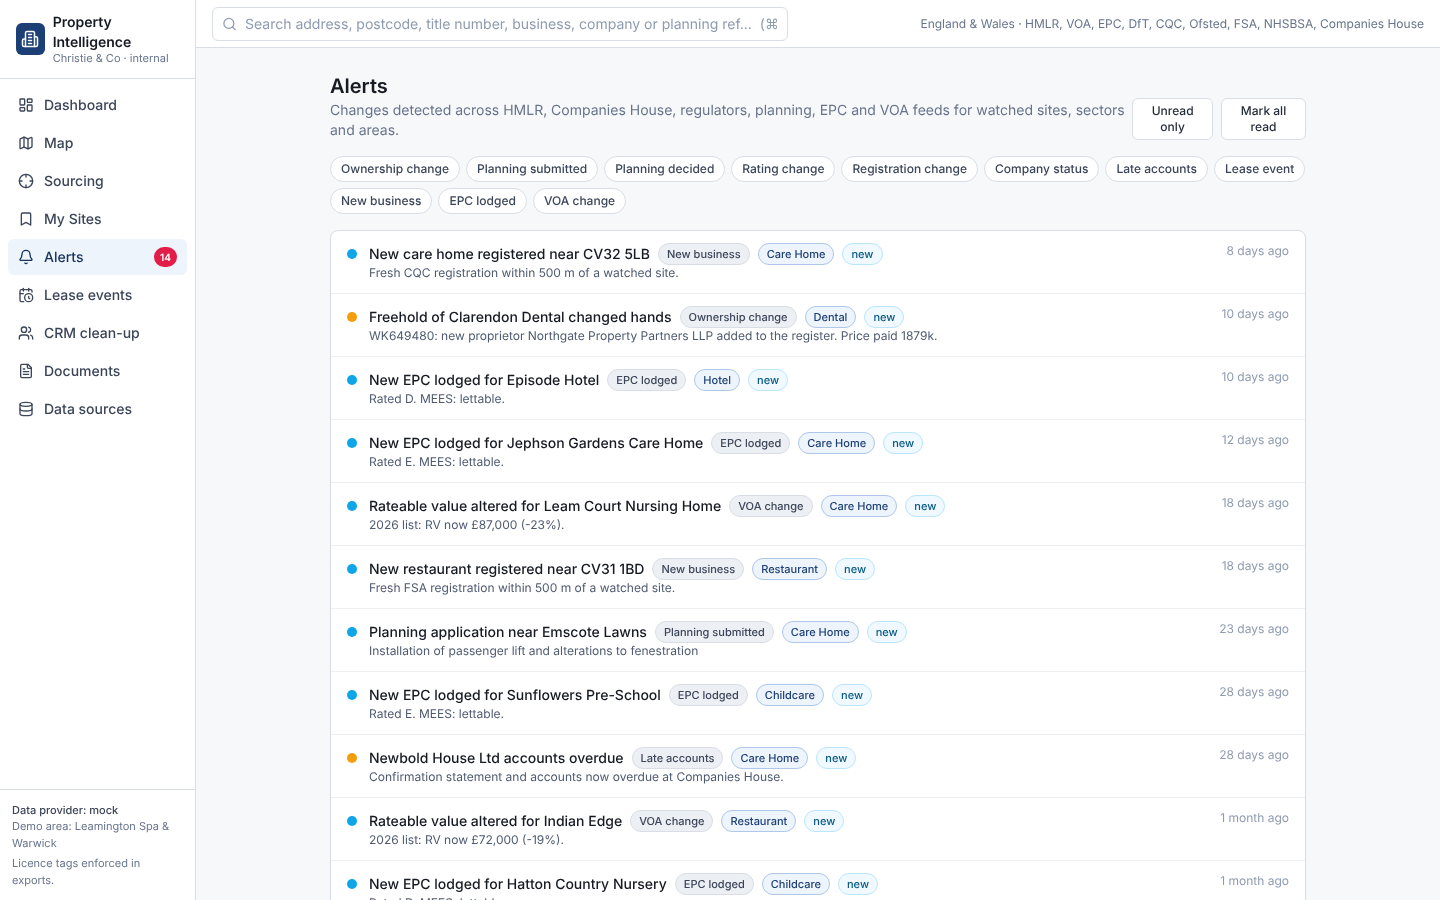
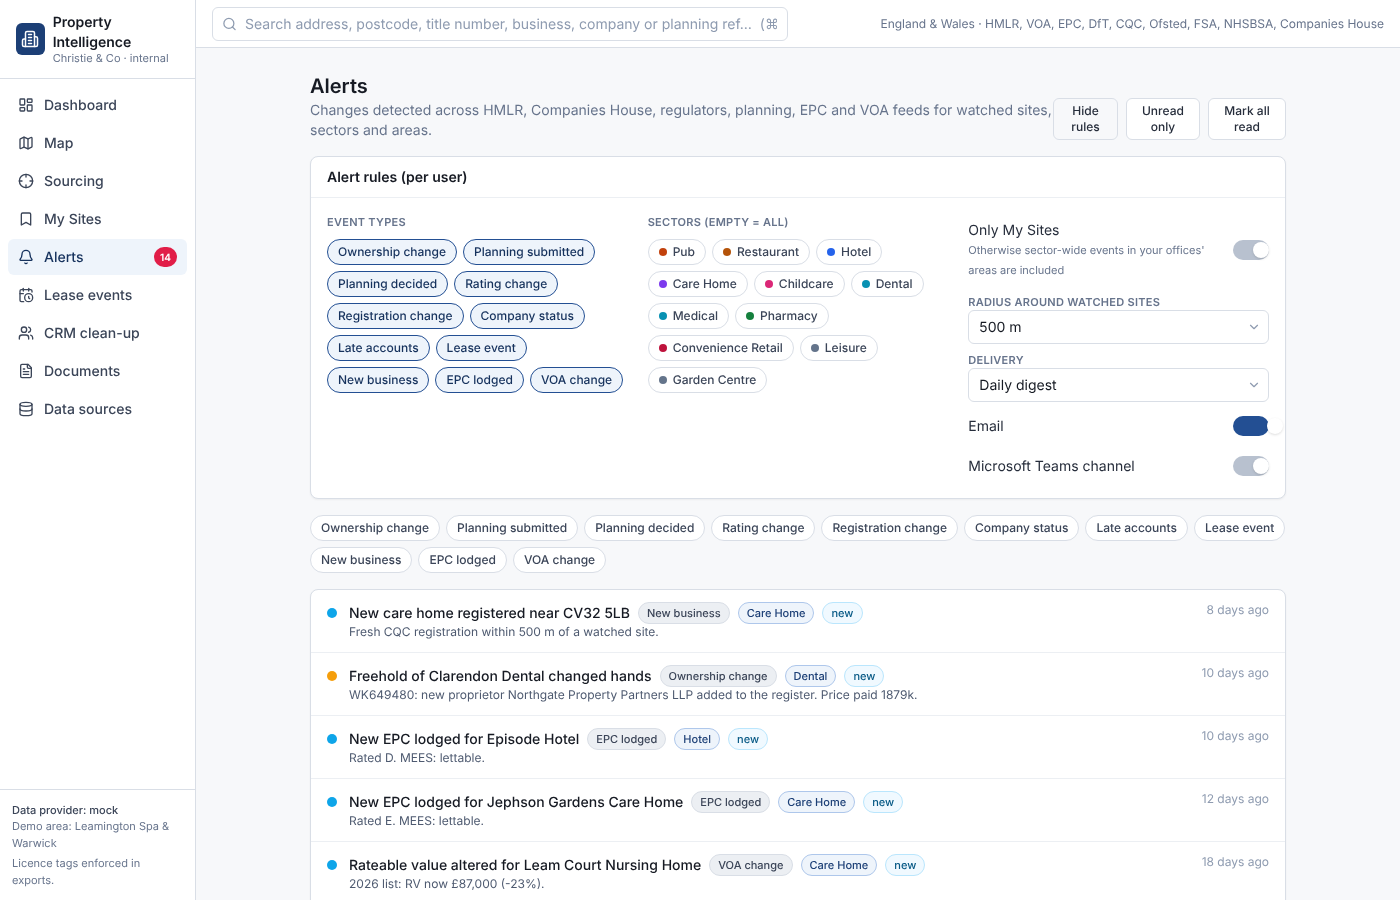
Add per-user alert rules, Escape to close panel, and user guide
Claude-Session: https://claude.ai/code/session_015vZgzRZrG7p5YZ5m8JabBE

diff --git a/src/pages/AlertsPage.tsx b/src/pages/AlertsPage.tsx
@@ -1,7 +1,9 @@
 import { useEffect, useState } from 'react'
 import { useNavigate } from 'react-router-dom'
 import { provider, type Alert } from '@/data'
-import { Badge, Button, Chip } from '@/components/ui'
+import { Badge, Button, Chip, Card, Toggle, Select } from '@/components/ui'
+import { SECTORS } from '@/data/types'
+import { SECTOR_COLOURS } from '@/lib/sectors'
 import { ago } from '@/lib/format'
 import { useUi } from '@/store/ui'
 
@@ -13,6 +15,8 @@ export function AlertsPage() {
   const [unreadOnly, setUnreadOnly] = useState(false)
   const nav = useNavigate()
   const select = useUi((s) => s.select)
+  const { alertRules, setAlertRules, watchlist } = useUi()
+  const [showRules, setShowRules] = useState(false)
   const load = () => provider.getAlerts().then((a) => setAlerts([...a]))
   useEffect(() => {
     load()
@@ -26,7 +30,7 @@ export function AlertsPage() {
       nav(`/map/${a.entityType}/${encodeURIComponent(a.entityId)}`)
     }
   }
-  const shown = alerts.filter((a) => (!kinds.length || kinds.includes(a.kind)) && (!unreadOnly || !a.read))
+  const shown = alerts.filter((a) => (!kinds.length || kinds.includes(a.kind)) && (!unreadOnly || !a.read) && alertRules.kinds.includes(a.kind) && (!alertRules.sectors.length || !a.sector || alertRules.sectors.includes(a.sector)) && (!alertRules.watchedOnly || watchlist.some((w) => w.entityId === a.entityId)))
   return (
     <div className="mx-auto max-w-5xl space-y-4 p-6">
       <div className="flex items-end justify-between">
@@ -35,10 +39,32 @@ export function AlertsPage() {
           <p className="text-sm text-ink-500">Changes detected across HMLR, Companies House, regulators, planning, EPC and VOA feeds for watched sites, sectors and areas.</p>
         </div>
         <div className="flex gap-2">
+          <Button size="sm" onClick={() => setShowRules(!showRules)}>{showRules ? 'Hide rules' : 'Alert rules'}</Button>
           <Button size="sm" onClick={() => setUnreadOnly(!unreadOnly)}>{unreadOnly ? 'Show all' : 'Unread only'}</Button>
           <Button size="sm" onClick={async () => { for (const a of alerts) await provider.markAlertRead(a.alertId); load() }}>Mark all read</Button>
         </div>
       </div>
+      {showRules && (
+        <Card title="Alert rules (per user)">
+          <div className="grid gap-5 md:grid-cols-3">
+            <div>
+              <div className="label mb-2">Event types</div>
+              <div className="flex flex-wrap gap-1.5">{KINDS.map((k) => <Chip key={k} label={k} selected={alertRules.kinds.includes(k)} onClick={() => setAlertRules({ kinds: alertRules.kinds.includes(k) ? alertRules.kinds.filter((x) => x !== k) : [...alertRules.kinds, k] })} />)}</div>
+            </div>
+            <div>
+              <div className="label mb-2">Sectors (empty = all)</div>
+              <div className="flex flex-wrap gap-1.5">{SECTORS.filter((x) => x !== 'Other').map((sct) => <Chip key={sct} label={sct} colour={SECTOR_COLOURS[sct]} selected={alertRules.sectors.includes(sct)} onClick={() => setAlertRules({ sectors: alertRules.sectors.includes(sct) ? alertRules.sectors.filter((x) => x !== sct) : [...alertRules.sectors, sct] })} />)}</div>
+            </div>
+            <div className="space-y-2">
+              <Toggle checked={alertRules.watchedOnly} onChange={(v) => setAlertRules({ watchedOnly: v })} label="Only My Sites" hint="Otherwise sector-wide events in your offices' areas are included" />
+              <label className="block text-xs"><span className="label">Radius around watched sites</span><Select value={alertRules.radiusM} onChange={(e) => setAlertRules({ radiusM: Number(e.target.value) })}>{[100, 250, 500, 1000, 2000].map((r) => <option key={r} value={r}>{r} m</option>)}</Select></label>
+              <label className="block text-xs"><span className="label">Delivery</span><Select value={alertRules.digest} onChange={(e) => setAlertRules({ digest: e.target.value as never })}><option value="instant">Instant</option><option value="daily">Daily digest</option><option value="weekly">Weekly digest</option></Select></label>
+              <Toggle checked={alertRules.channels.email} onChange={(v) => setAlertRules({ channels: { ...alertRules.channels, email: v } })} label="Email" />
+              <Toggle checked={alertRules.channels.teams} onChange={(v) => setAlertRules({ channels: { ...alertRules.channels, teams: v } })} label="Microsoft Teams channel" />
+            </div>
+          </div>
+        </Card>
+      )}
       <div className="flex flex-wrap gap-1.5">{KINDS.map((k) => <Chip key={k} label={k} selected={kinds.includes(k)} onClick={() => setKinds(kinds.includes(k) ? kinds.filter((x) => x !== k) : [...kinds, k])} />)}</div>
       <ul className="card divide-y divide-ink-100">
         {shown.map((a) => (

diff --git a/src/store/ui.ts b/src/store/ui.ts
@@ -1,6 +1,6 @@
 import { create } from 'zustand'
 import { persist } from 'zustand/middleware'
-import type { BoundsQuery, Sector, SourcingFilters, WatchItem } from '@/data/types'
+import type { Alert, BoundsQuery, Sector, SourcingFilters, WatchItem } from '@/data/types'
 import { DEFAULT_FILTERS } from '@/data/types'
 
 export type LayerKey = 'titles' | 'businesses' | 'planning' | 'traffic' | 'footfall' | 'constraints' | 'satellite'
@@ -27,6 +27,7 @@ export interface UiState {
   projects: string[]
   highlightIds: string[]
   highlightLabel?: string
+  alertRules: AlertRules
   toggleLayer: (k: LayerKey) => void
   setLayer: (k: LayerKey, v: boolean) => void
   setConstraintKinds: (k: string[]) => void
@@ -44,6 +45,25 @@ export interface UiState {
   isWatched: (entityType: WatchItem['entityType'], entityId: string) => boolean
   addProject: (p: string) => void
   setHighlight: (ids: string[], label?: string) => void
+  setAlertRules: (patch: Partial<AlertRules>) => void
+}
+
+export interface AlertRules {
+  kinds: Alert['kind'][]
+  sectors: Sector[]
+  watchedOnly: boolean
+  radiusM: number
+  digest: 'instant' | 'daily' | 'weekly'
+  channels: { email: boolean; teams: boolean }
+}
+
+export const DEFAULT_ALERT_RULES: AlertRules = {
+  kinds: ['Ownership change', 'Planning submitted', 'Planning decided', 'Rating change', 'Registration change', 'Company status', 'Late accounts', 'Lease event', 'New business', 'EPC lodged', 'VOA change'],
+  sectors: [],
+  watchedOnly: false,
+  radiusM: 500,
+  digest: 'daily',
+  channels: { email: true, teams: false },
 }
 
 export const useUi = create<UiState>()(
@@ -60,6 +80,7 @@ export const useUi = create<UiState>()(
       watchlist: [],
       projects: ['Midlands care disposals', 'Pubco lease expiries 2027'],
       highlightIds: [],
+      alertRules: DEFAULT_ALERT_RULES,
       toggleLayer: (k) => set((s) => ({ layers: { ...s.layers, [k]: !s.layers[k] } })),
       setLayer: (k, v) => set((s) => ({ layers: { ...s.layers, [k]: v } })),
       setConstraintKinds: (constraintKinds) => set({ constraintKinds }),
@@ -78,10 +99,11 @@ export const useUi = create<UiState>()(
       isWatched: (entityType, entityId) => get().watchlist.some((w) => w.entityType === entityType && w.entityId === entityId),
       addProject: (p) => set((s) => (s.projects.includes(p) ? s : { projects: [...s.projects, p] })),
       setHighlight: (highlightIds, highlightLabel) => set({ highlightIds, highlightLabel }),
+      setAlertRules: (patch) => set((s) => ({ alertRules: { ...s.alertRules, ...patch } })),
     }),
     {
       name: 'cpi-ui',
-      partialize: (s) => ({ layers: s.layers, constraintKinds: s.constraintKinds, mapView: s.mapView, watchlist: s.watchlist, projects: s.projects, filters: s.filters }),
+      partialize: (s) => ({ layers: s.layers, constraintKinds: s.constraintKinds, mapView: s.mapView, watchlist: s.watchlist, projects: s.projects, filters: s.filters, alertRules: s.alertRules }),
       // Tolerate older or partial persisted shapes: fill gaps from defaults instead of crashing.
       merge: (persisted, current) => {
         const p = (persisted ?? {}) as Partial<UiState>
@@ -95,6 +117,7 @@ export const useUi = create<UiState>()(
           constraintKinds: Array.isArray(p.constraintKinds) ? p.constraintKinds : current.constraintKinds,
           mapView: p.mapView && Number.isFinite(p.mapView.lon) ? p.mapView : current.mapView,
           highlightIds: [],
+          alertRules: { ...DEFAULT_ALERT_RULES, ...(p.alertRules ?? {}), channels: { ...DEFAULT_ALERT_RULES.channels, ...(p.alertRules?.channels ?? {}) } },
         }
       },
     },

diff --git a/src/components/panels/InfoPanel.tsx b/src/components/panels/InfoPanel.tsx
@@ -18,6 +18,14 @@ export function InfoPanel() {
     select(null)
     nav('/map')
   }
+  useEffect(() => {
+    const onKey = (e: KeyboardEvent) => {
+      if (e.key === 'Escape' && !(e.target instanceof HTMLInputElement)) close()
+    }
+    document.addEventListener('keydown', onKey)
+    return () => document.removeEventListener('keydown', onKey)
+    // eslint-disable-next-line react-hooks/exhaustive-deps
+  }, [])
   return (
     <aside className="no-print flex h-full w-[440px] shrink-0 flex-col border-l border-ink-200 bg-white shadow-xl">
       {selected?.type === 'planning' && <PlanningDetail reference={selected.id} onClose={close} />}

diff --git a/docs/USER-GUIDE.md b/docs/USER-GUIDE.md
@@ -1,0 +1,64 @@
+# User guide
+
+A short walk-through for Christie & Co staff. The demo runs on a synthetic Leamington Spa and Warwick dataset; every figure is illustrative until the live feeds are connected.
+
+## Finding a property or operator
+
+Use the search bar at the top (or press ⌘K / Ctrl+K). It accepts an address, postcode, title number, business name, operator or landlord company, or a planning reference. Picking a result opens it on the map with the info panel.
+
+## Reading the map
+
+- **Ownership titles** are shaded by proprietor type: blue for companies, grey for private individuals, green for local authorities, pink for charities, purple for overseas companies. A red outline means the occupier or owner has a distress signal.
+- **Trading businesses** are dots coloured by sector. A red halo marks distress. Zoom in for names.
+- **Planning applications** are dots coloured by status (blue pending, green approved, red refused).
+- **Traffic counts** are DfT count points sized by vehicles per day; dark blue means counted in the last three years.
+- **Footfall** is a hexagonal heatmap from the mobile-location vendor (demo cells today).
+- **Constraints** show flood zones, conservation areas, listed buildings, Green Belt, Article 4 and TPOs; pick types in the layer panel.
+- Hover any feature for a summary; click to open the info panel. Press Escape to close it.
+
+## The info panel
+
+- **Overview**: freeholder, occupier, rateable value, floor area, EPC, lease, register rating and capacity, last sale, planning and mobility in one view, plus every identifier (title, UPRN, VOA, EPC, CQC, Ofsted, FSA and so on).
+- **Ownership**: proprietors, charges, price paid, and buttons to order the official register or title plan at HM Land Registry cost (£7). Private owners' names appear once the register is purchased. The owner's wider estate links to the company page.
+- **Leases & docs**: registered leases with term and expiry. Ordering the lease document extracts rent, reviews, breaks, repairing terms, permitted use and tie, with a confidence score, and files the PDF in the firm-wide document store.
+- **Operator**: the trading company from Companies House and each regulator record (CQC beds and rating, Ofsted places and rating, NHS pharmacy contract and dispensing trend, FSA hygiene rating, premises licence hours).
+- **Planning**: applications on the title and within 250 m, with links back to the council portal.
+- **Rates & EPC**: VOA description, rateable value, floor-by-floor areas, estimated rates payable, EPC with MEES status.
+- **Mobility**: footfall cells and DfT counts with history sparklines.
+- **Constraints**: anything intersecting the title.
+
+Use **Add to My Sites** to watch a site, **Report** to open a printable PDF, **Zoom** to centre the map and **Link** to copy a shareable URL.
+
+## Sourcing
+
+Open **Sourcing** (or the Filters button on the map). Pick a strategy preset such as "Distressed care homes" or "Pub leases expiring < 24 months", or combine filters: sectors, tenure, lease expiry, rateable value, floor area, EPC, owner type, distress signals, regulator rating, constraint exclusions, planning activity and free text. Results can be sorted, exported to CSV (with licence notices), watched in bulk, or plotted on the map as highlighted dots.
+
+## My Sites and alerts
+
+**My Sites** holds everything you watch, grouped into projects with notes. **Alerts** lists ownership changes, planning events, regulator rating changes, company status changes, late accounts, lease events, EPC lodgements and VOA changes. The **Alert rules** card lets each user choose event types, sectors, radius, digest frequency and channel.
+
+## Lease events
+
+A calendar of expiries from registered leases, plus breaks and rent reviews once the lease has been bought and parsed. Filter by horizon and event type; click a row to open the site.
+
+## CRM clean-up
+
+1. Upload a CSV export from the CRM or load the sample. Column mapping is detected automatically and can be corrected.
+2. Click **Run matching**. Every record is normalised, resolved to a UPRN and title, matched to a trading business and its regulator record, and its company checked at Companies House.
+3. Work the **Review queue**: each card shows the CRM record beside the matched entity with the reasons and any issues (owner changed, company dissolved, business deregistered, capacity or tenure mismatch, invalid postcode, stale contact). Accept or reject.
+4. Open **Duplicates** to merge groups into the suggested survivor.
+5. **Plot matched on map** to see the client base geographically, or **Export cleaned CSV** for the CRM import, which carries the new identifiers and a decision column.
+
+Nothing is written back to the CRM automatically.
+
+## Company pages
+
+Status, officers, persons with significant control, charges and lenders, group structure, trading sites operated or owned, and all freehold titles held by the group, with a watch button.
+
+## Documents and data sources
+
+**Documents** is the firm-wide store of purchased HM Land Registry copies with extraction summaries and spend. **Data sources** shows every upstream feed, its licence class, cadence, last run and status.
+
+## Licences in one line each
+
+Open Government Licence data (most sources) may be reused with attribution. HM Land Registry company-ownership data may not be used to market to the proprietors. VOA data is for internal use unless the restricted terms travel with it. Ordnance Survey premium data stays inside the organisation. Footfall vendor data follows the vendor contract.

diff --git a/docs/screenshots/README.md b/docs/screenshots/README.md
@@ -8,7 +8,8 @@ Captured headlessly from the mock dataset with `npm run e2e` (basemap tiles were
 | ![Lease purchased and parsed](lease-parsed.png) | ![Operator and registers](tab-operator.png) |
 | ![Rates and EPC](tab-ratesepc.png) | ![Sourcing](sourcing-filtered.png) |
 | ![CRM review queue](crm-queue.png) | ![CRM duplicates](crm-dups.png) |
-| ![Company estate](company.png) | ![Lease events](leases.png) |
-| ![Alerts](alerts.png) | ![Data sources](admin.png) |
+| ![CRM matches plotted](crm-plotted.png) | ![Company estate](company.png) |
+| ![Lease events](leases.png) | ![Alerts](alerts.png) |
+| ![Data sources](admin.png) | |
 
 Full printable site report: [report.png](report.png)
